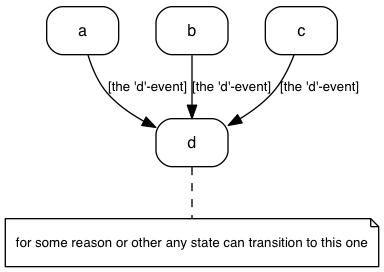
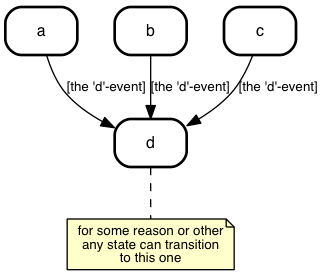
tweaks the aesthetics of the generated dots
- states get fatter lines 2x that of edges

notes get a #FFFFCC background

- the edge that attaches a note to an edge gets weigh=0 - which looks better in many situations

diff --git a/src/render/ast2dot.js b/src/render/ast2dot.js
@@ -26,13 +26,16 @@ define(function(require) {
         'fillcolor=black fixedsize=true height=0.15 peripheries=2 label=""]';
 
     var NOTE_TPL        =
-        INDENT + '"${name}" [label="${label}" shape=note fontsize=10]\n';
+        INDENT + '"${name}" [label="${label}" shape=note fontsize=10 fillcolor="#ffffcc" penwidth=1.0]\n';
 
     var INVIS_NODE_TPL  =
         INDENT + '"${name}" [shape=point style=invis margin=0 width=0 height=0]\n';
 
     var NOTE_EDGE_TPL   =
         INDENT + '"${from}" -- "${to}" [style=dashed arrowtail=none arrowhead=none]\n';
+
+    var EDGE_NOTE_EDGE_TPL   =
+        INDENT + '"${from}" -- "${to}" [style=dashed arrowtail=none arrowhead=none weight=0]\n';
 
     var EDGE_TPL        =
         INDENT + '"${from}" -- "${to}" [label="${label}"]\n';
@@ -56,6 +59,12 @@ define(function(require) {
 
     function renderNoteEdge(pFrom, pTo) {
         return NOTE_EDGE_TPL
+                .replace("${from}", pFrom)
+                .replace("${to}", pTo);
+    }
+
+    function renderEdgeNoteEdge(pFrom, pTo) {
+        return EDGE_NOTE_EDGE_TPL
                 .replace("${from}", pFrom)
                 .replace("${to}", pTo);
     }
@@ -104,7 +113,7 @@ define(function(require) {
 
     function renderTransitionNote(pTrans) {
         return renderNote(pTrans.noteName, pTrans.note) +
-                renderNoteEdge(pTrans.name, pTrans.noteName);
+                renderEdgeNoteEdge(pTrans.name, pTrans.noteName);
     }
 
     function renderTransitionNotes(pTransitions) {
@@ -133,7 +142,7 @@ define(function(require) {
         return [
             'graph "state transitions" {',
             INDENT + 'splines=true ordering=out fontname="Helvetica" fontsize=12 overlap=true',
-            INDENT + 'node [shape=Mrecord style=filled fillcolor=white fontname=Helvetica fontsize=12 ]',
+            INDENT + 'node [shape=Mrecord style=filled fillcolor=white fontname=Helvetica fontsize=12 penwidth=2.0]',
             INDENT + 'edge [fontname=Helvetica fontsize=10 arrowhead=normal dir=forward]',
             '\n${states}',
             '${transitions}',

diff --git a/doc/sample.html b/doc/sample.html
@@ -44,20 +44,22 @@
             placeholder="Put your nice stategenny script in here">initial,
 backlog,
 doing: code & unit test,
+# Team members will peer review
+# the code & tests here
 review,
-qa: functional test\nUX pixel check,
+QA: functional test\nUX pixel check,
 done,
 final;
 
 initial => backlog;
 backlog => doing: [pick up item]/assign name(s);
 doing => review: [functioning]/assign reviewer(s);
-review => qa: [review OK]/ assign tester(s);
-qa => done: [tests OK];
+review => QA: [review OK]/ assign tester(s);
+QA => done: [tests OK];
 done => final;
 
 review => backlog: [review not OK];
-qa => backlog: [tests not OK];
+QA => backlog: [tests not OK];
 
 // * => impeded: [impediment];</textarea>
         <div class="buttonia">

diff --git a/README.md b/README.md
@@ -148,7 +148,9 @@ to any other state, use the special state name `*`
 ```
 a,b,c,
 
-# for some reason or other any state can transition to this one
+# for some reason or other
+# any state can transition
+# to this one
 d;
 
 * => d: [the 'd'-event];
